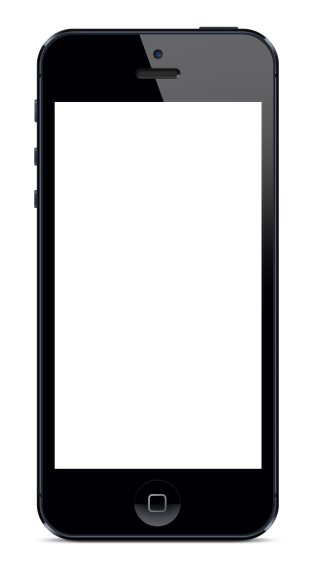
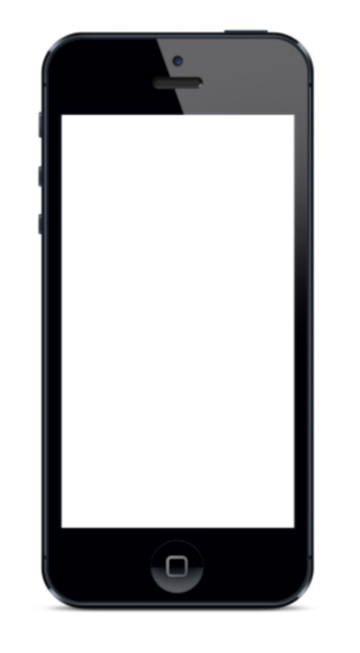
ajustes de tamanhos frame telefone

diff --git a/projeto-social/index.html b/projeto-social/index.html
@@ -9,10 +9,15 @@
 <body>
     <main>
         <section id="tela">
-            <iframe src="home.html" frameborder="0"></iframe>
+            <iframe src="home.html" frameborder="0" name="icon" id="icon"></iframe>
         </section>
         <section id="social">
-
+            <a href="home.html" target="icon"><img src="imagens/logo-home.jpg" alt="tela inicial"></a> <br>
+            <a href="github.html"
+            target="icon"><img src="imagens/logo-github.jpg" alt="Github"></a> <br>
+            <a href="instagram.html" target="icon"><img src="imagens/logo-instagram.jpg" alt="Instagram"></a> <br>
+            <a href="youtube.html" target="icon"><img src="imagens/logo-youtube.jpg" alt="Youtube"></a> <br>
+            <a href="facebook.html" target="icon"><img src="imagens/logo-facebook.jpg" alt="Facebook"></a>
         </section>
     </main>
 </body>

diff --git a/projeto-social/estilos/style.css b/projeto-social/estilos/style.css
@@ -29,14 +29,34 @@ section#tela {
     left: 50%;
     transform: translate(-50%, -50%);
     background: url(../imagens/frame-iphone.png) no-repeat; 
-    width: 320px;
-    height: 580px;
+    width: 360px;
+    height: 653px;
 }
 
-iframe {
+iframe#icon {
     position: relative;
-    top: 101px;
-    left: 54px;
-    width: 208px;
-    height: 369px;
+    top: 113px;
+    left: 60px;
+    width: 235px;
+    height: 416px;
 }
+
+section#social {
+    text-align: right;
+}
+
+section#social img{
+    width: 50px;
+    margin: 10px;
+    border-radius: 50%;
+    box-shadow: 2px 2px 5px rgba(0, 0, 0, 0.51);
+    box-sizing: border-box;
+}
+
+section#social img:hover {
+    border: 2px solid white;
+    transform: translate(-3px, -3px);
+    box-shadow: 5px 5px 10px rgba(0, 0, 0, 0.51);
+    transition: transform .3s, border .2s;
+}
+

diff --git a/projeto-social/estilos/social.css b/projeto-social/estilos/social.css
@@ -1,0 +1,31 @@
+@charset "UTF-8";
+
+* {
+    padding: 0px;
+    margin: 0px;
+    font-family: Arial, Helvetica, sans-serif;
+    background-color: black;
+}
+
+::-webkit-scrollbar {
+    width: 0px;
+    height: 0px;
+}
+
+img {
+    width: 100vw;
+}
+
+a {
+    display: block;
+    padding: 40px;
+    background-color: #80001c;
+    color: white;
+    text-decoration: none;
+    text-align: center;
+}
+
+a:hover {
+    background-color: #b30027;
+    transition: .3s;
+}

diff --git a/projeto-social/instagram.html b/projeto-social/instagram.html
@@ -1,0 +1,13 @@
+<!DOCTYPE html>
+<html lang="pt-br">
+<head>
+    <meta charset="UTF-8">
+    <meta name="viewport" content="width=device-width, initial-scale=1.0">
+    <link rel="stylesheet" href="estilos/social.css">
+    <title>Instagram</title>
+</head>
+<body>
+    <img src="imagens/tela-insta.jpg" alt="Instagram">
+    <a href="https://www.instagram.com/kkauan_torress/" target="_blank">ACESSE</a>
+</body>
+</html>

diff --git a/projeto-social/facebook.html b/projeto-social/facebook.html
@@ -1,0 +1,13 @@
+<!DOCTYPE html>
+<html lang="pt-br">
+<head>
+    <meta charset="UTF-8">
+    <meta name="viewport" content="width=device-width, initial-scale=1.0">
+    <link rel="stylesheet" href="estilos/social.css">
+    <title>Facebook</title>
+</head>
+<body>
+    <img src="imagens/tela-face.jpg" alt="Facebook">
+    <a href="https://www.facebook.com/kauan.hehe/" target="_blank">ACESSE</a>
+</body>
+</html>

diff --git a/projeto-social/youtube.html b/projeto-social/youtube.html
@@ -1,0 +1,13 @@
+<!DOCTYPE html>
+<html lang="pt-br">
+<head>
+    <meta charset="UTF-8">
+    <meta name="viewport" content="width=device-width, initial-scale=1.0">
+    <link rel="stylesheet" href="estilos/social.css">
+    <title>Youtube</title>
+</head>
+<body>
+    <img src="imagens/tela-youtube.jpg" alt="Youtube">
+    <a href="https://www.youtube.com/@Viking_trs" target="_blank">ACESSE</a>
+</body>
+</html>

diff --git a/projeto-social/github.html b/projeto-social/github.html
@@ -1,0 +1,13 @@
+<!DOCTYPE html>
+<html lang="pt-br">
+<head>
+    <meta charset="UTF-8">
+    <meta name="viewport" content="width=device-width, initial-scale=1.0">
+    <title>Github</title>
+    <link rel="stylesheet" href="estilos/social.css">
+</head>
+<body>
+    <img src="imagens/tela-git.jpg" alt="Github">
+    <a href="https://github.com/KauanTorress" target="_blank">ACESSE</a>
+</body>
+</html>
